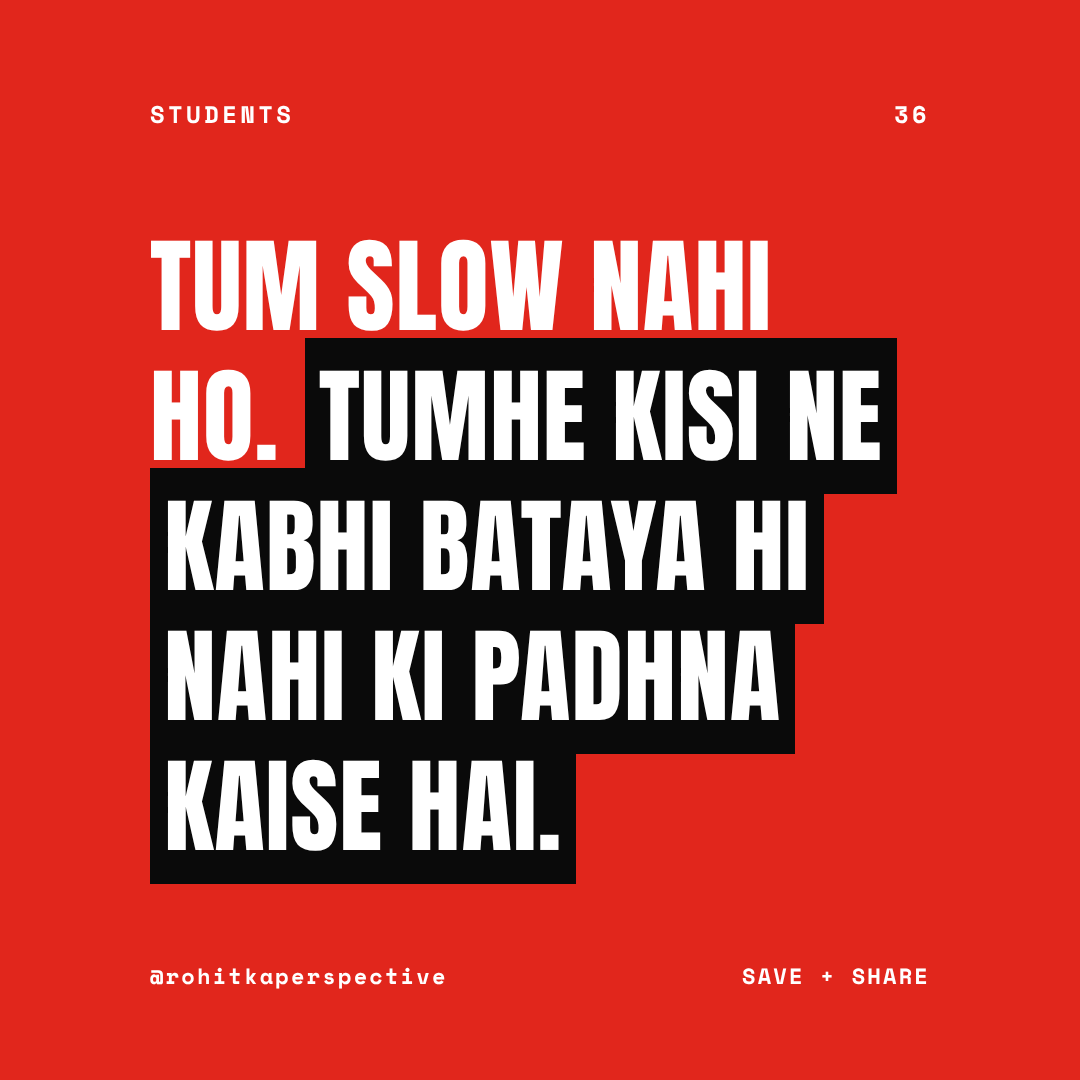
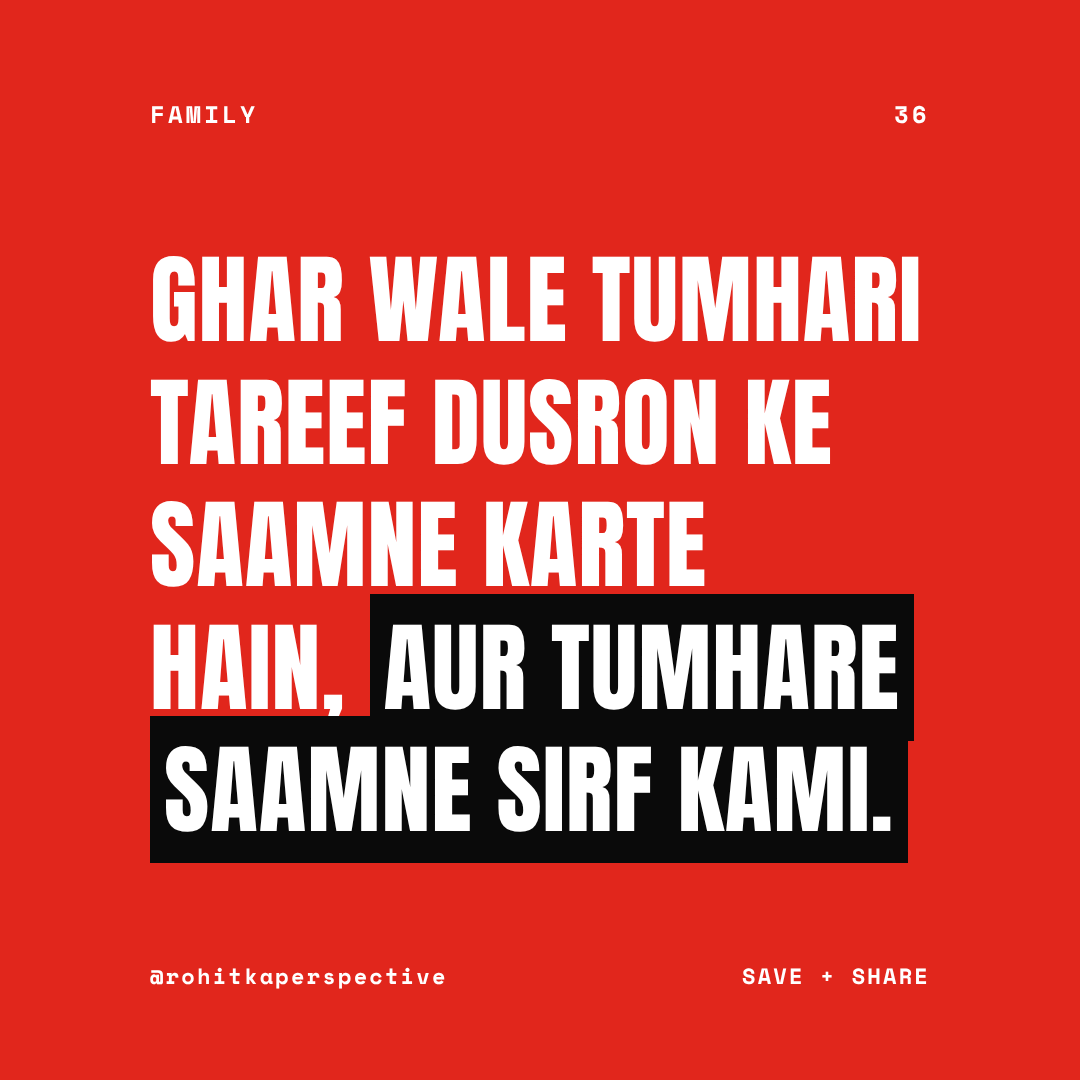
Drop student and creator pillars; 18 posts become People quotes
Claude-Session: https://claude.ai/code/session_017B7c6Vf9XCXrSAdJU7C17J

Changed region(s): [[0.1222, 0.2139, 0.8556, 0.825], [0.1222, 0.0917, 0.275, 0.1222]]

diff --git a/engine/revise_people.py b/engine/revise_people.py
@@ -1,0 +1,146 @@
+"""Replaces the student and creator posts with People / Life quotes.
+
+Rohit narrowed the pillars to: people, life, entrepreneurship, psychology, deep understanding.
+Wednesdays (were Students) and Fridays (were Creativity) become People posts.
+The look of each date is kept, so the no-two-looks-in-a-row rule still holds.
+
+Run:  python3 engine/revise_people.py     # writes tmp/batch3.json, tmp/rows3.json, updates ledger.json
+"""
+import json
+from pathlib import Path
+
+ROOT = Path(__file__).resolve().parent.parent
+
+HT_PEOPLE = '#relationships #people #friendship #humanbehavior #hinglish #rohitkaperspective'
+HT_LOVE = '#relationships #love #lettinggo #humanbehavior #hinglish #rohitkaperspective'
+
+# date, TAG, pillar, quote (one {{punch}}), ask, send, hashtags
+POSTS = [
+ # ---- Wednesdays: friendship, family, how people treat each other ----
+ ('2026-11-04','Friendship','People / friendship',
+  'Dosti ladai se khatam nahi hoti. {{Khatam tab hoti hai jab dono ko farak padna band ho jaata hai.}}',
+  'Kis dost se ab farak padna band ho gaya? Neeche likho.',
+  'Save karo, aur aaj usse ek baar baat kar lo.', HT_PEOPLE),
+
+ ('2026-11-11','People','People / boundaries',
+  'Log tumse wahi behave karte hain {{jo tum ek baar chalne de dete ho.}}',
+  'Kaun si cheez tumne chalne di thi? Comment mein likho.',
+  'Save karo, aur agli baar wahin rok do.', HT_PEOPLE),
+
+ ('2026-11-18','Family','People / family',
+  'Ghar wale tumhari tareef dusron ke saamne karte hain, {{aur tumhare saamne sirf kami.}}',
+  'Tumne ye kab notice kiya tha? Neeche batao.',
+  'Save karo, aur us insaan ko bhejo jo yahi feel karta hai.', HT_PEOPLE),
+
+ ('2026-11-25','People','People / giving',
+  'Jo insaan sabke liye time nikalta hai, {{uske liye kisi ke paas time nahi hota.}}',
+  'Tumhare liye kaun time nikalta hai? Neeche uska naam likho.',
+  'Save karo, aur aaj usko time do.', HT_PEOPLE),
+
+ ('2026-12-02','Habit','People / missing someone',
+  'Kuch log tumhe miss nahi karte. {{Unhe bas tumhari aadat thi.}}',
+  'Ye padh ke kiska naam aaya? Comment mein likho.',
+  'Save kar lo, aur jab yaad aaye tab dobara padhna.', HT_PEOPLE),
+
+ ('2026-12-09','Effort','People / one-sided effort',
+  'Rishte baat band hone se nahi tootte. {{Tootte tab hain jab ek hi banda koshish karta rehta hai.}}',
+  'Kis rishte mein tum akele koshish kar rahe ho? Neeche likho.',
+  'Save karo, aur ek baar seedha pooch lo.', HT_PEOPLE),
+
+ ('2026-12-16','Care','People / being seen',
+  'Sabse achcha insaan wo hota hai jo tumhare "theek hoon" ko {{dusri baar poochta hai.}}',
+  'Tumse dusri baar kaun poochta hai? Comment mein likho.',
+  'Save karo, aur aaj kisi se dusri baar pooch lo.', HT_PEOPLE),
+
+ ('2026-12-23','Trust','People / forgiveness',
+  'Maaf kar dena aasan hai. {{Mushkil wahi bharosa wapas dena hai.}}',
+  'Tumne kisko maaf kiya par bharosa wapas nahi kar paaye? Neeche likho.',
+  'Save kar lo, aur agli baar khud se poocho ki kya chahiye.', HT_PEOPLE),
+
+ ('2026-12-30','People','People / being remembered',
+  'Log tumhe tab yaad karte hain jab kaam ho. {{Tum unhe tab yaad karte ho jab dard ho.}}',
+  'Dard mein tum kiska naam sochte ho? Neeche likho.',
+  'Save karo, aur aaj usko bina kaam ke message karo.', HT_PEOPLE),
+
+ # ---- Fridays: love, loyalty, distance, letting go ----
+ ('2026-11-06','Love','People / love',
+  'Pyaar khatam nahi hota. {{Bas ek din tum uske liye ladna chhod dete ho.}}',
+  'Tum kis baat ke liye ladna chhod chuke ho? Comment mein likho.',
+  'Save kar lo, aur us dost ko bhejo jo abhi isse guzar raha hai.', HT_LOVE),
+
+ ('2026-11-13','Sorry','People / patterns',
+  'Jo baar baar sorry bolta hai par badalta kabhi nahi, {{uska sorry maafi nahi, permission hai.}}',
+  'Kitni baar wahi sorry sun chuke ho? Neeche likho.',
+  'Save karo, aur agli baar sorry nahi, badlaav maango.', HT_LOVE),
+
+ ('2026-11-20','Distance','People / distance',
+  'Door wo nahi jo shehar chhod ke chala gaya. {{Door wo hai jo isi shehar mein hai aur milta nahi.}}',
+  'Kaun isi shehar mein hai par milta nahi? Comment mein likho.',
+  'Save karo, aur aaj usko milne ka poochho.', HT_LOVE),
+
+ ('2026-11-27','Tired','People / letting go',
+  'Tum unhe chhodna nahi chahte the. {{Tum bas thak gaye the akele pakad ke rakhne se.}}',
+  'Kis rishte mein tum akele pakde hue ho? Neeche likho.',
+  'Save kar lo, aur jis din himmat aaye us din padhna.', HT_LOVE),
+
+ ('2026-12-04','Unsaid','People / unsaid things',
+  'Sabse zyada dard us baat ka hota hai {{jo kabhi kahi hi nahi gayi.}}',
+  'Wo baat kya hai jo tum aaj tak nahi keh paaye? Comment mein likho.',
+  'Save karo, aur aaj ek baat keh do.', HT_LOVE),
+
+ ('2026-12-11','Silence','People / being ignored',
+  'Ignore karna bhi ek jawab hai. {{Bas use samajhne mein thoda waqt lagta hai.}}',
+  'Kiska jawab tum abhi tak wait kar rahe ho? Neeche likho.',
+  'Save karo, aur ab wait karna band kar do.', HT_LOVE),
+
+ ('2026-12-18','Friendship','People / one-sided friendship',
+  'Jisko tum apna sabse achcha dost kehte ho, {{usko last message bhi tumne hi kiya tha.}}',
+  'Check karo aur batao: last message kisne kiya tha? Neeche likho.',
+  'Save karo, aur ye usko bhej do.', HT_PEOPLE),
+
+ ('2026-12-25','Loyalty','People / loyalty',
+  'Jo log tumhare bure waqt mein chup the, {{unhe achche waqt mein bolne ka haq nahi.}}',
+  'Bure waqt mein tumhare saath kaun tha? Neeche uska naam likho.',
+  'Save karo, aur aaj usko shukriya bol do.', HT_LOVE),
+
+ ('2027-01-01','New year','People / distance',
+  'Naya saal mubarak un logon ko bhi {{jinse ab baat nahi hoti.}}',
+  'Kiska naam aaya? Comment mein likho.',
+  'Save karo, aur aaj unme se ek ko message kar do.', HT_LOVE),
+]
+
+
+def main():
+    ledger = json.loads((ROOT / 'ledger.json').read_text(encoding='utf-8'))
+    by_date = {e['date']: e for e in ledger}
+
+    batch, rows = [], []
+    for date, tag, pillar, text, ask, send, tags in POSTS:
+        old = by_date[date]
+        plain = text.replace('{{', '').replace('}}', '')
+        assert len(plain.split()) <= 24, f'{date}: too long'
+        assert text.count('{{') == 1 and text.count('}}') == 1, f'{date}: punch braces'
+        img = f'posts/rkp-{date}.png'
+        num = f"{ledger.index(old) + 1:02d}"
+        batch.append({'look': old['look'], 'tag': tag, 'num': num, 'text': text, 'out': img})
+        caption = f'{plain}\n\n{ask}\n\n{send}\n\n{tags}'
+        old.update(pillar=pillar, quote=plain, caption=caption, lang='hinglish', source='batch-2-people')
+        rows.append({'date': date, 'quote': plain, 'caption': caption,
+                     'url': 'https://raw.githubusercontent.com/rohitmudgill/rkp-posts/main/' + img})
+
+    # Looks must still never repeat on consecutive days.
+    for a, b in zip(ledger, ledger[1:]):
+        assert a['look'] != b['look'], f"look repeats on {b['date']}"
+    quotes = [e['quote'].lower() for e in ledger]
+    assert len(set(quotes)) == len(quotes), 'duplicate quote in ledger'
+
+    (ROOT / 'ledger.json').write_text(json.dumps(ledger, ensure_ascii=False, indent=2), encoding='utf-8')
+    tmp = ROOT / 'tmp'
+    tmp.mkdir(exist_ok=True)
+    (tmp / 'batch3.json').write_text(json.dumps(batch, ensure_ascii=False, indent=1), encoding='utf-8')
+    (tmp / 'rows3.json').write_text(json.dumps(rows, ensure_ascii=False, indent=1), encoding='utf-8')
+    print(f'{len(batch)} posts revised')
+
+
+if __name__ == '__main__':
+    main()

diff --git a/RUNBOOK.md b/RUNBOOK.md
@@ -18,15 +18,19 @@ at 18:00 IST on the next free date. The queue is the buffer: a missed run never 
    30 days ahead, stop and report "buffer full" (do not pile up posts).
 4. Pillar and language come from the weekday of the TARGET date:
 
+   There are FIVE pillars and no others: people, life, entrepreneurship, psychology,
+   deep understanding. Never write a post aimed only at students or exam aspirants, and
+   never a post aimed only at creators or content makers. The audience is everyone.
+
    | Day | Pillar | Language |
    |-----|--------|----------|
    | Mon | Entrepreneurship and business: customers, money, risk, decisions, building | Hinglish |
-   | Tue | Psychology: biases, defence mechanisms, attachment, habits | English |
-   | Wed | Students: exams, comparison, learning, parental pressure, careers | Hinglish |
-   | Thu | Society: class, expectations, social media, hustle culture, family | English |
-   | Fri | Creativity: starting, taste vs skill, fear of being seen, consistency | Hinglish |
-   | Sat | Life: loss, time, friendship, growing up, regret | Hinglish |
-   | Sun | Deep psychology: loneliness, overthinking, self-worth | English |
+   | Tue | Psychology: anger, habits, why people react the way they do | English |
+   | Wed | People: friendship, family, how people treat each other | Hinglish |
+   | Thu | People and society: class, money, expectations, social media, relatives | English |
+   | Fri | People: love, loyalty, distance, letting go | Hinglish |
+   | Sat | Life: time, regret, growing up, money, what matters later | Hinglish |
+   | Sun | Deep understanding: loneliness, self-worth, fear, healing | English |
 
    (English is 3 of 7 days, well above the 30% minimum.)
 5. Write 12 candidate quotes. Score each 1-5 on: recognition ("that is about me"), twist (a reversal
